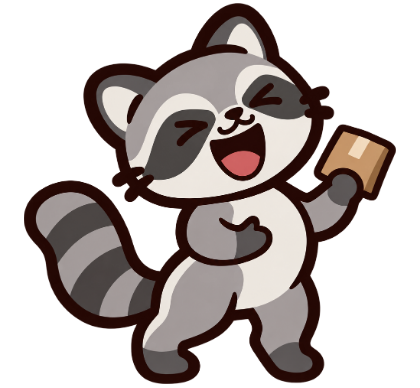
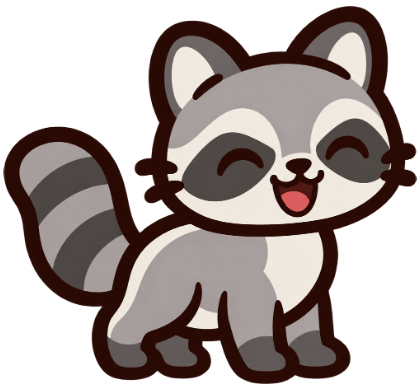
Redraw the raccoon's laugh and scare on all four legs
The standing versions looked smaller and off-model; the new ones keep the
original body, pose and size and only change the face, so the package
stays drawn at its usual spot.

Claude-Session: https://claude.ai/code/session_015hULZu7XVdnYCm8fRFnGPa

diff --git a/GameV2.js b/GameV2.js
@@ -1835,8 +1835,6 @@ function atualizarVisualGuaxinim(cena) {
     const expressao = distraido ? 'guaxinim_rindo'
         : guaxinim.tempo < guaxinim.expressaoAte ? guaxinim.expressao : 'guaxinim';
     if (guaxinim.figura.texture.key !== expressao) guaxinim.figura.setTexture(expressao);
-    // Rindo ele segura o pacote na mao desenhada; nas outras poses o pacote fica junto do corpo.
-    guaxinim.saco.setVisible(expressao !== 'guaxinim_rindo');
     // Distraido, ele chacoalha de tanto rir.
     const respiro = guaxinim.pulando ? 0 : distraido
         ? Math.sin(guaxinim.tempo * 24) * 0.06 : Math.sin(guaxinim.tempo * 5) * 0.03;

diff --git a/index.html b/index.html
@@ -37,6 +37,6 @@
 <body>
   <div id="jogo"></div>
   <script src="https://cdn.jsdelivr.net/npm/phaser@3.90/dist/phaser.min.js"></script>
-  <script src="GameV2.js?v=casspet-13"></script>
+  <script src="GameV2.js?v=casspet-14"></script>
 </body>
 </html>

diff --git a/CLAUDE.md b/CLAUDE.md
@@ -54,8 +54,8 @@ ser revista em CONFIGURACOES > HISTORIA.
   da grama e `superficieChao` a linha da grama dentro da imagem.
 - Guaxinim: `assets/guaxinim.png` (recorte transparente de `guaxinim-original.webp`); o pacote que ele
   carrega e a textura `fx_saco`, desenhada no codigo. Expressoes (geradas no Magnific, mesmo tamanho):
-  `guaxinim-rindo.png` (provocando e distraido; segura o pacote na mao, entao o `fx_saco` some) e
-  `guaxinim-susto.png` (depois do susto).
+  `guaxinim-rindo.png` (provocando e distraido) e `guaxinim-susto.png` (depois do susto), de quatro patas
+  como o original e com o mesmo corpo (decisao do usuario: nada de guaxinim em pe ou menor).
 - Gato: o parado (`mascote_1`) usa `assets/gato-parado.webp`, redesenhado no estilo das outras poses (o antigo,
   mais escuro, e `mascote_1.png`). `gato-machucado.webp` (tonto) aparece ~0,5 s quando o passaro/OVNI acerta.
 - A textura `introducao` (arte do menu) tem recortes (`madeiraLoja`); ao usar a arte inteira, passe o
